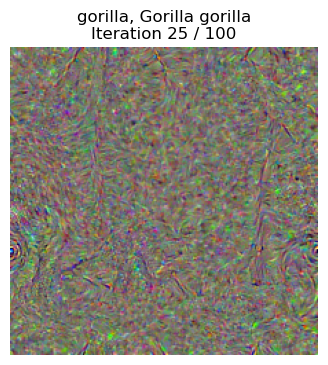
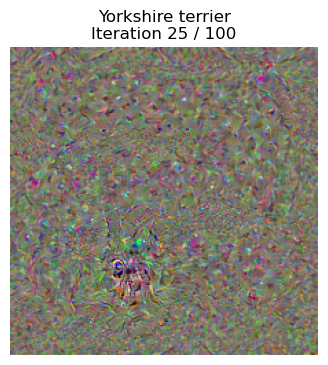
add: class visualizations

diff --git a/assignment3/class_visualization.py b/assignment3/class_visualization.py
@@ -21,14 +21,14 @@ cv = ClassVisualization()
 
 # target_y = 76 # Tarantula
 # target_y = 78 # Tick
-# target_y = 187 # Yorkshire Terrier
+target_y = 187 # Yorkshire Terrier
 # target_y = 683 # Oboe
-target_y = 366 # Gorilla
+# target_y = 366 # Gorilla
 # target_y = 604 # Hourglass
 
 _, _, class_names = load_imagenet_val(num=5)
 
-targets = [366]
+targets = [187]
 
 for target in targets:
     out = cv.create_class_visualization(target, class_names, model, dtype)
